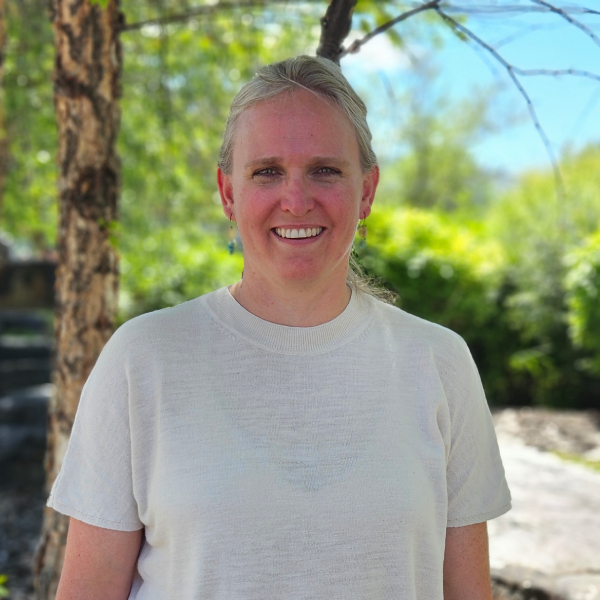
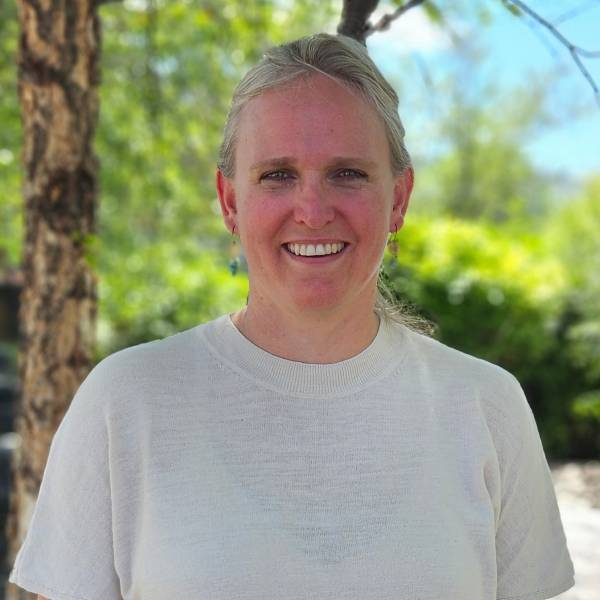
Julies revisions 10-13

diff --git a/src/_includes/partials/site-head.html b/src/_includes/partials/site-head.html
@@ -1,8 +1,8 @@
 <header role="banner" x-data="{ mobileMenuOpen: false }" class="site-head relative shadow-md z-50">
-    <div class="flex-col items-end wrapper px-4 md:px-12 py-8 bg-white">
+    <div class="flex-col items-end wrapper px-4 md:px-12 py-8 bg-[#e9c99f]/5">
 	    <div class="mx-auto flex flex-row gap-12 max-w-7xl">
             <a href="/" aria-label="{{ site.name }}" class="flex-grow">
-                <img width="275px" class="min-w-215px" src="/assets/logos/nrc_logo.jpg" alt="{{ site.name }}"/>
+                <img width="275px" class="min-w-215px" src="/assets/logos/nrc_logo.png" alt="{{ site.name }}"/>
             </a>
             <nav class="hidden sm:flex flex-col sm:flex-row justify-around items-start sm:items-end gap-4 sm:gap-12" aria-label="Primary">
                 {% for item in navigation.header %}

diff --git a/src/_includes/partials/footer.html b/src/_includes/partials/footer.html
@@ -1,9 +1,9 @@
-<footer role="banner" class="bg-white">
+<footer role="banner" class="bg-[#e9c99f]/20">
     <hr>
     <div class="wrapper main-content pt-2">
         <div class="mx-auto flex flex-col md:flex-row gap-12 max-w-7xl items-start md:items-end">
             <div class="flex-grow">
-                <img width="225px" class="min-w-125px" src="/assets/logos/nrc_logo.jpg" alt="{{ site.name }}"/>
+                <img width="225px" class="min-w-125px" src="/assets/logos/nrc_logo.png" alt="{{ site.name }}"/>
             </div>
             <nav class="pr-12 flex flex-col gap-0 text-sm text-gray-500" aria-label="Footer">
                 {% for item in navigation.footer %}

diff --git a/src/_includes/partials/counselor-bio.html b/src/_includes/partials/counselor-bio.html
@@ -1,6 +1,6 @@
 {% for item in counselors.items %}
 <div class="flex justify-between items-center py-4">
-    <div class="flex-col relative p-6 min-w-xs flex-1 mx-auto outline outline-2 outline-offset-0 outline-olive-300 rounded-xl">
+    <div class="flex-col relative p-6 min-w-xs flex-1 mx-auto outline outline-2 outline-offset-0 outline-olive-300 bg-olive-100 rounded-xl">
 
         <div class="flex flex-col gap-2 sm:flex-row  items-center sm:items-end mx-auto w-full">   
             <img src="{{ item.photoURL }}" class="flex rounded-full sm:rounded-xl size-42 object-cover"/>

diff --git a/src/_includes/layouts/base.html b/src/_includes/layouts/base.html
@@ -14,7 +14,7 @@
 			[x-cloak] { display: none !important; }
 		</style>
 	</head>
-	<body id="site-body" class="flex flex-col m-0 font-lato antialiased text-gray-700 bg-taupe-100 min-h-screen">
+	<body id="site-body" class="flex flex-col m-0 font-lato antialiased text-gray-700 bg-[#e9c99f]/5 min-h-screen">
 		{% include "partials/site-head.html" %}
 		<main tabindex="-1" id="main-content" class="relative pb-24 py-0 px-0 flex-grow flex-col">
 				{% block content %}{% endblock %}

diff --git a/src/assets/css/main.css b/src/assets/css/main.css
@@ -19,14 +19,14 @@
         @apply text-green-700;
     }
     main a:hover {
-        @apply text-lime-800;
+        @apply text-black;
     }
 
     header a {
         @apply text-black;
     }
     header a:hover {
-        @apply text-green-700;
+        @apply text-black underline;
     }
 }
 
